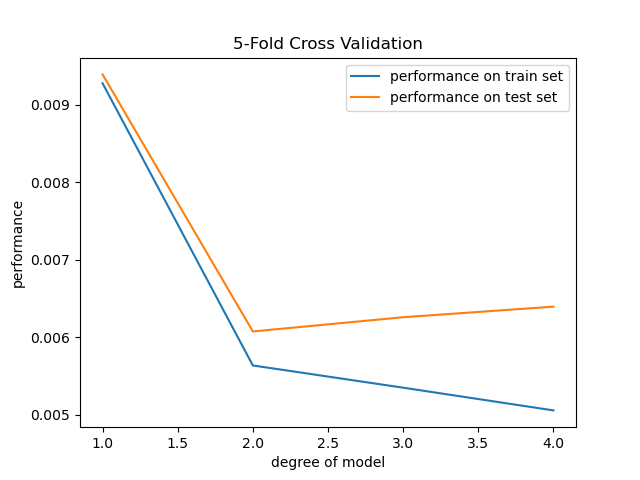
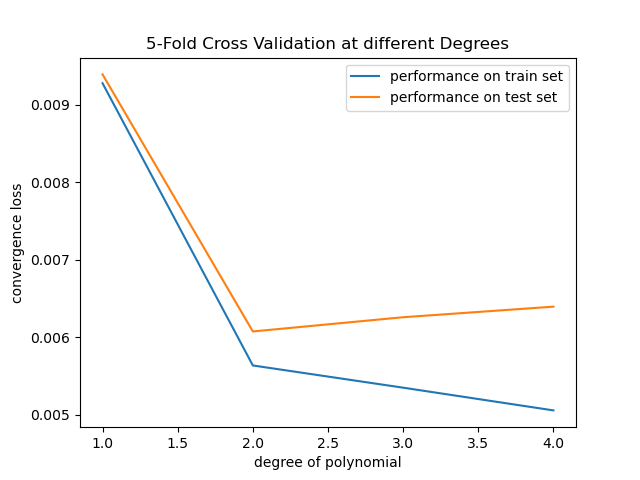
core code in .py format

Changed region(s): [[0.2188, 0.0625, 0.7812, 0.125], [0.4062, 0.9375, 0.625, 1.0], [0.0, 0.375, 0.0625, 0.625]]

diff --git a/Assignments/Assignment_1/util.py b/Assignments/Assignment_1/util.py
@@ -1,0 +1,178 @@
+import numpy as np
+import matplotlib.pyplot as plt
+from sklearn.preprocessing import PolynomialFeatures
+
+
+class BatchGradientDescent:
+    converge_condition = 0.00000001
+
+    def __init__(self, x, y, learning_rate, number_of_iteration=None, init_theta=None):
+        """
+        :param x: columns of independent variable
+        :param y: one column of dependent variable
+        :param learning_rate: the scalar multiplied with the gradient every step
+        :param number_of_iteration: if not specified the break condition is convergence
+        :param init_theta: initial arguments, default value is a column of zeros
+        """
+        self.x = x
+        self.y = y
+        self.lr = learning_rate
+        self.ni = number_of_iteration
+        self.theta = init_theta if init_theta else np.array([0] * x.shape[1]).reshape([x.shape[1], 1])
+        self.history = [
+            (
+                self.theta.flatten(),
+                self.gradient().flatten(),
+                self.cost()
+            )
+        ]
+        self.epoch = 0
+
+    def forecast(self):
+        return np.dot(self.x, self.theta)
+
+    def cost(self):
+        return np.mean((self.forecast() - self.y) ** 2)
+
+    def test(self, x, y):
+        return np.mean((np.dot(x, self.theta) - y) ** 2)
+
+    def gradient(self):
+        error = self.forecast() - self.y
+        tile_error = np.tile(error, self.theta.shape[0])
+        return np.mean(2 * tile_error * self.x, axis=0)
+
+    def train(self):
+        while True:
+            # Compute gradient
+            grad = self.gradient()
+            grad = grad.reshape(-1, 1)
+            # Update parameters
+            self.theta = self.theta - self.lr * grad.reshape(-1, 1)
+            # Calculate the loss
+            loss = self.cost()
+            # Decide break
+            if self.ni:
+                if self.epoch == self.ni:
+                    break
+            else:
+                if self.history[-1][-1]-loss <= self.converge_condition:
+                    break
+            self.epoch += 1
+            # Store the parameter, the gradient, the loss
+            self.history.append((self.theta.flatten(), self.gradient().flatten(), loss))
+        return self.history
+
+    def plot_loss_history(self):
+        plt.plot(
+            [i for i in range(self.epoch + 1)],
+            [line[2] for line in self.history]
+        )
+        plt.xlabel("number of iteration")
+        plt.ylabel("loss")
+        plt.show()
+
+    @property
+    def loss_history(self):
+        return [line[2] for line in self.history]
+
+    @property
+    def loss_final(self):
+        return self.history[-1][2]
+
+    @property
+    def theta_final(self):
+        return self.theta
+
+
+def high_degree_performances(x, y, top_degree, lr, ni=None):
+    models = []
+    for d in range(1, top_degree+1):
+        polynomial_feature = PolynomialFeatures(degree=d, include_bias=False).fit_transform(x)
+        model = BatchGradientDescent(polynomial_feature, y, lr, ni)
+        model.train()
+        models.append(model)
+        print(high_degree_performances, f"degree={d} finished, {top_degree} in total")
+
+    if ni:
+        for d in range(1, top_degree+1):
+            plt.plot(
+                [i for i in range(ni + 1)],
+                models[d-1].loss_history,
+                label=f"degree={d}"
+            )
+        plt.legend()
+        plt.xlabel("number of iteration")
+        plt.ylabel("loss")
+        plt.title(f"Loss Versus Number of Iteration, lr={lr}")
+        plt.show()
+    else:
+        plt.plot(
+            [i for i in range(1, top_degree + 1)],
+            [m.loss_final for m in models],
+        )
+        plt.xlabel("degree of polynomial")
+        plt.ylabel("convergence loss")
+        plt.title(f"Performance Versus Degree of Polynomial")
+        plt.show()
+    return models
+
+
+def k_fold(x, y, d, lr, k=10):
+    """
+    :param x: original dataset independent variables
+    :param y: original dataset dependent variable
+    :param d: degree of the model
+    :param lr: learning rate
+    :param k: number of slice
+    :return:
+    """
+    length_of_test = int(x.shape[0]/k)
+    x = PolynomialFeatures(degree=d, include_bias=False).fit_transform(x)
+    x_slices = [x[i*length_of_test: (i+1)*length_of_test-1, :] for i in range(k)]
+    y_slices = [y[i*length_of_test: (i+1)*length_of_test-1, :] for i in range(k)]
+    performance_train = []
+    performance_test = []
+    for i in range(k):
+        x_test = x_slices[i]
+        y_test = y_slices[i]
+        # vertical concatenate
+        x_train = np.concatenate([x_slices[j] for j in range(k) if j != i], axis=0)
+        y_train = np.concatenate([y_slices[j] for j in range(k) if j != i], axis=0)
+
+        model = BatchGradientDescent(x_train, y_train, lr)
+        model.train()
+
+        performance_train.append(model.loss_final)
+        performance_test.append(model.test(x_test, y_test))
+
+        print(k_fold, f"fold {i} finished, {k} in total")
+    return np.mean(performance_train), np.mean(performance_test)
+
+
+def high_degree_validations(x, y, top_degree, lr, k):
+    train_performances = []
+    test_performances = []
+    for d in range(1, top_degree+1):
+        train_p, test_p = k_fold(x, y, d, lr, k)
+        train_performances.append(train_p)
+        test_performances.append(test_p)
+        print(high_degree_validations, f"degree={d} finished, {top_degree} in total")
+
+    axis = [i for i in range(1, top_degree + 1)]
+    plt.plot(
+        axis,
+        train_performances,
+        label="performance on train set"
+    )
+    plt.plot(
+        axis,
+        test_performances,
+        label="performance on test set"
+    )
+    plt.legend()
+    plt.xlabel("degree of polynomial")
+    plt.ylabel("convergence loss")
+    plt.title(f"{k}-Fold Cross Validation at different Degrees")
+    plt.show()
+    return train_performances, test_performances

diff --git a/Assignments/Assignment_1/main.py b/Assignments/Assignment_1/main.py
@@ -1,0 +1,52 @@
+import numpy as np
+import pandas as pd
+from util import BatchGradientDescent, high_degree_performances, high_degree_validations
+
+
+# encoding
+df = pd.read_csv("insurance.csv")
+enc_data = {
+    'is_smoker': [1 if i == 'yes' else 0 for i in df['smoker']],
+    'is_male': [1 if i == 'male' else 0 for i in df['sex']],
+    'southwest': [1 if i == 'southwest' else 0 for i in df['region']],
+    'southeast': [1 if i == 'southeast' else 0 for i in df['region']],
+    'northwest': [1 if i == 'northwest' else 0 for i in df['region']],
+    'northeast': [1 if i == 'northeast' else 0 for i in df['region']],
+}
+enc_df = df.join(pd.DataFrame(data=enc_data))
+enc_df = enc_df.drop(columns=['sex', 'smoker', 'region'])
+
+# scaling
+features_to_scale = ['age', 'bmi', 'children', 'charges']
+data = {}
+min_max_dict = {}
+for feature in features_to_scale:
+    min_value = min(enc_df[feature])
+    max_value = max(enc_df[feature])
+    min_max_dict[feature] = {}
+    min_max_dict[feature]['min'] = min_value
+    min_max_dict[feature]['max'] = max_value
+    data[feature] = [(v-min_value)/(max_value-min_value) for v in enc_df[feature]]
+
+scaled_df = enc_df.drop(columns=features_to_scale)
+scaled_df = scaled_df.join(pd.DataFrame(data=data))
+
+# create array
+X = scaled_df.drop(columns=['charges']).to_numpy()
+print(f"X.shape: {X.shape}")
+X1 = np.c_[np.ones((X.shape[0], 1)), X]
+print(f"X.shape: {X1.shape}")
+Y = scaled_df['charges'].to_numpy()
+print(f"Y.shape: {Y.shape}")
+Y = np.reshape(Y, [Y.shape[0], 1])
+print(f"Y.shape: {Y.shape}")
+
+
+# train model by specifying the total number of iteration
+high_degree_performances(X, Y, 5, 0.01, 100)
+
+# train model by auto-decided convergence based on threshold value
+# high_degree_performances(X, Y, 4, 0.1)
+
+# 2-fold validation for 1-4 degrees
+high_degree_validations(X, Y, 4, 0.1, 2)
